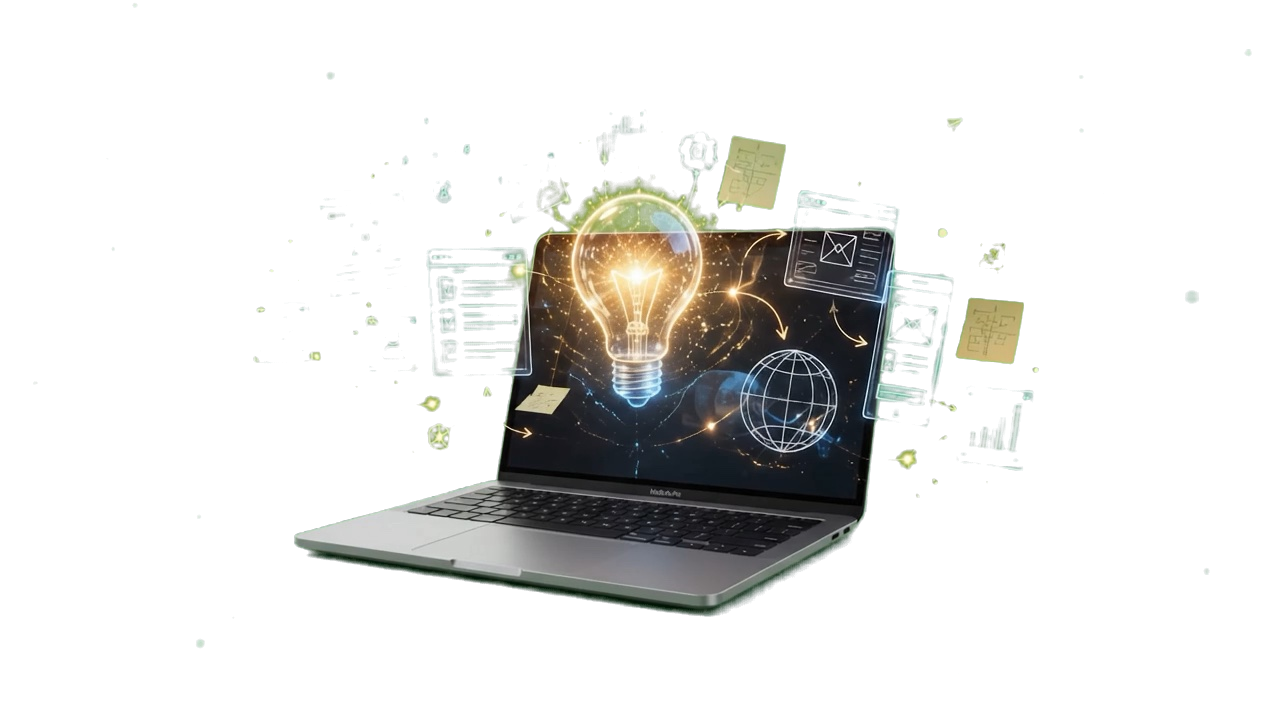
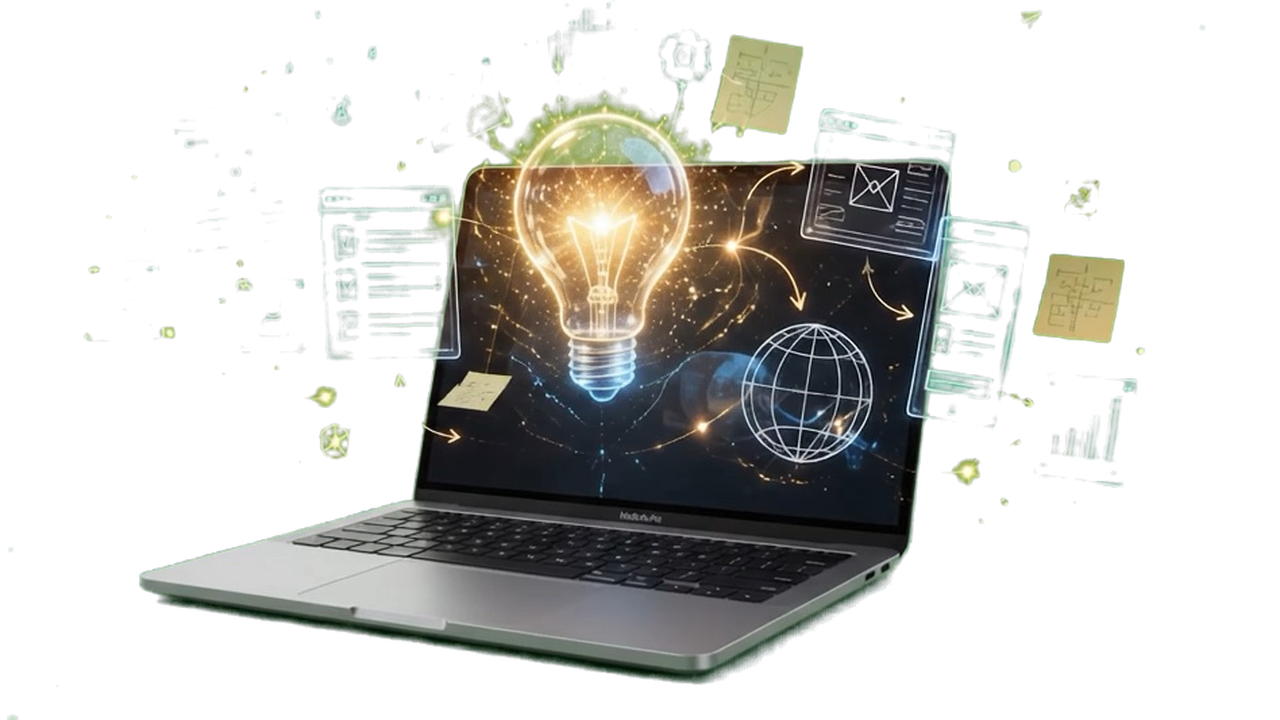
feat: ampliar escala e proporcao do elemento flutuante no hero

diff --git a/src/App.css b/src/App.css
@@ -567,9 +567,9 @@ body {
 
 .home-hero-grid {
   display: grid;
-  grid-template-columns: minmax(0, 1.15fr) minmax(0, 1fr);
+  grid-template-columns: minmax(0, 1fr) minmax(0, 1.25fr);
   align-items: center;
-  gap: clamp(32px, 5vw, 64px);
+  gap: clamp(24px, 4vw, 56px);
   position: relative;
 }
 
@@ -583,12 +583,13 @@ body {
   display: flex;
   justify-content: center;
   align-items: center;
+  width: 100%;
 }
 
 .home-hero-floating-workstation {
   position: relative;
   width: 100%;
-  max-width: 640px;
+  max-width: 860px;
   display: flex;
   justify-content: center;
   align-items: center;
@@ -596,16 +597,16 @@ body {
 
 .workstation-ambient-glow {
   position: absolute;
-  width: 140%;
-  height: 140%;
-  top: -20%;
-  left: -20%;
+  width: 160%;
+  height: 160%;
+  top: -30%;
+  left: -30%;
   background:
-    radial-gradient(ellipse at 50% 50%, rgba(0, 164, 255, 0.22) 0%, rgba(30, 136, 229, 0.09) 45%, transparent 70%);
-  filter: blur(52px);
+    radial-gradient(ellipse at 50% 50%, rgba(0, 164, 255, 0.28) 0%, rgba(30, 136, 229, 0.12) 45%, transparent 70%);
+  filter: blur(64px);
   pointer-events: none;
   z-index: 0;
-  opacity: 0.9;
+  opacity: 0.95;
 }
 
 .workstation-stage {
@@ -615,7 +616,7 @@ body {
   display: flex;
   align-items: center;
   justify-content: center;
-  filter: drop-shadow(0 20px 48px rgba(0, 164, 255, 0.14)) drop-shadow(0 12px 28px rgba(7, 24, 45, 0.6));
+  filter: drop-shadow(0 24px 60px rgba(0, 164, 255, 0.18)) drop-shadow(0 14px 32px rgba(7, 24, 45, 0.65));
 }
 
 .home-hero-chroma-canvas {
@@ -642,6 +643,17 @@ body {
   display: block;
   aspect-ratio: 16 / 9;
   object-fit: contain;
+}
+
+@media (min-width: 1400px) {
+  .home-hero-grid {
+    grid-template-columns: minmax(0, 1fr) minmax(0, 1.35fr);
+    gap: 64px;
+  }
+
+  .home-hero-floating-workstation {
+    max-width: 960px;
+  }
 }
 
 .hero-media {
@@ -680,7 +692,7 @@ body {
 .home-hero-inner {
   position: relative;
   z-index: 3;
-  width: min(1280px, calc(100% - 48px));
+  width: min(1440px, calc(100% - 48px));
   margin: 0 auto;
 }
 
@@ -2218,7 +2230,7 @@ footer {
   }
 
   .home-hero-floating-workstation {
-    max-width: 520px;
+    max-width: 620px;
     margin: 0 auto;
   }
 
@@ -2303,7 +2315,7 @@ footer {
   }
 
   .home-hero-floating-workstation {
-    max-width: 380px;
+    max-width: 480px;
     margin: 0 auto;
   }
 

diff --git a/src/components/HomeHeroVideo.tsx b/src/components/HomeHeroVideo.tsx
@@ -156,18 +156,23 @@ export function HomeHeroVideo({
     gl.enableVertexAttribArray(positionLocation)
     gl.vertexAttribPointer(positionLocation, 2, gl.FLOAT, false, 0, 0)
 
-    // Flip Y for texture coordinates
+    // Zoomed texture coordinates to remove empty margins and make the subject significantly larger
+    const u1 = 0.1492
+    const u2 = 0.8898
+    const v1 = 0.1528
+    const v2 = 0.8931
+
     const texCoordBuffer = gl.createBuffer()
     gl.bindBuffer(gl.ARRAY_BUFFER, texCoordBuffer)
     gl.bufferData(
       gl.ARRAY_BUFFER,
       new Float32Array([
-        0, 1,
-        1, 1,
-        0, 0,
-        0, 0,
-        1, 1,
-        1, 0,
+        u1, v2,
+        u2, v2,
+        u1, v1,
+        u1, v1,
+        u2, v2,
+        u2, v1,
       ]),
       gl.STATIC_DRAW
     )
